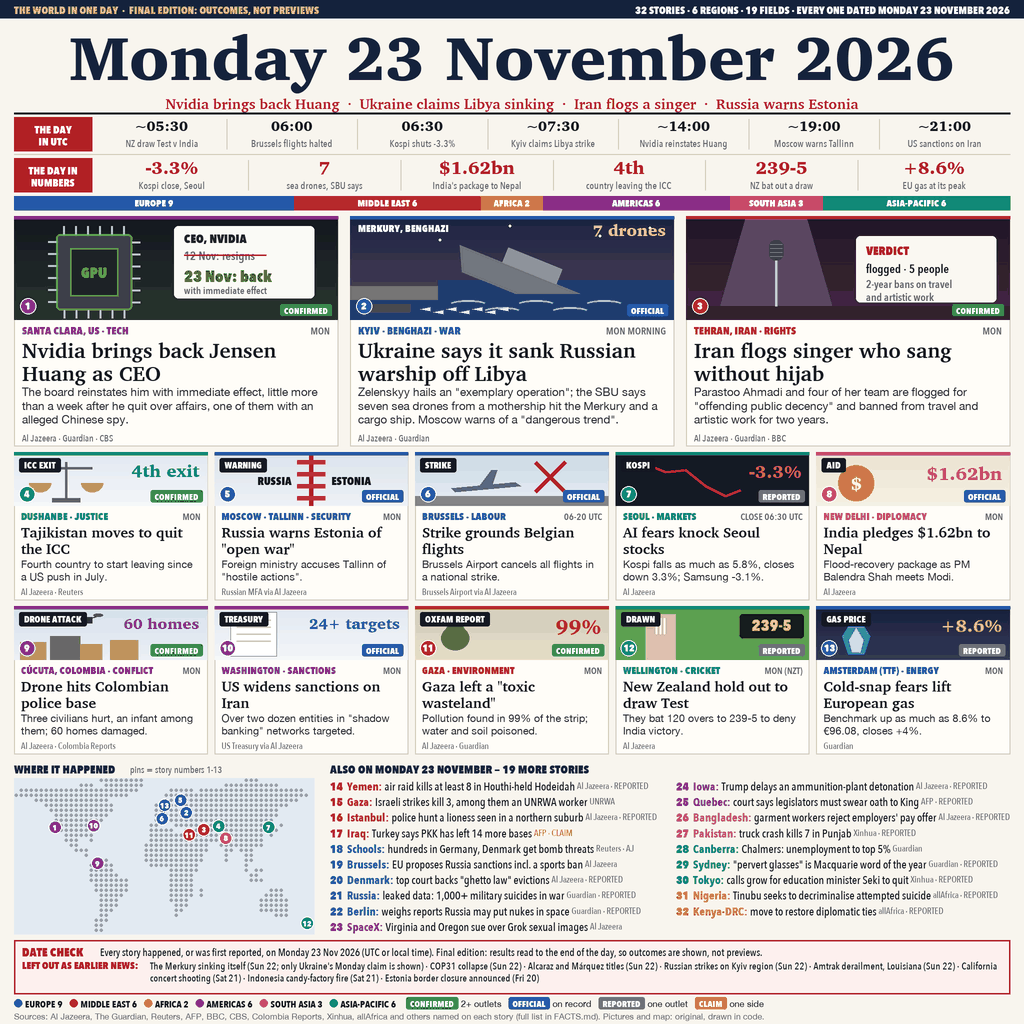
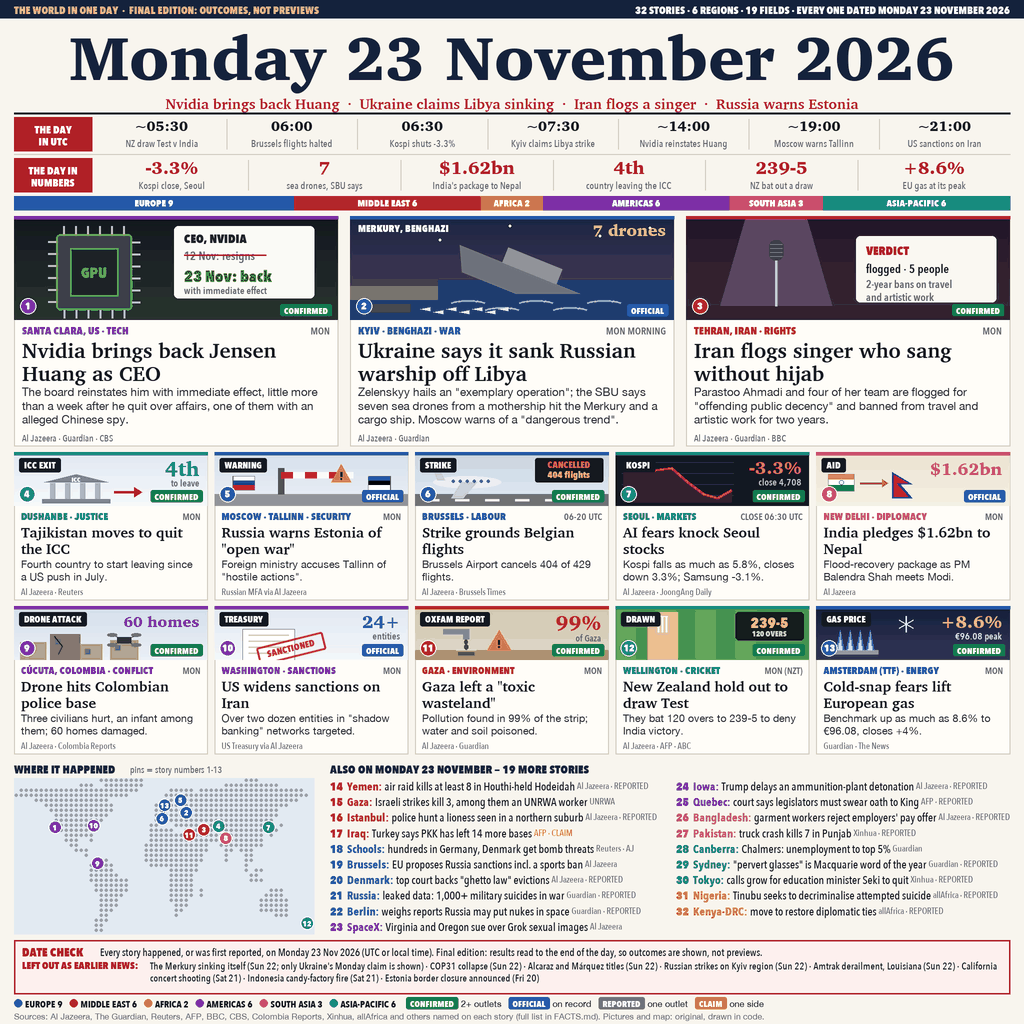
v2: redrawn card pictures, second sources lift four stories to CONFIRMED, Brussels figure corrected

diff --git a/render.py b/render.py
@@ -151,16 +151,16 @@ CARDS = [
          head='Russia warns Estonia of "open war"',
          dek='Foreign ministry accuses Tallinn of "hostile actions".',
          src='Russian MFA via Al Jazeera'),
-    dict(n=6, region='EUROPE', field='LABOUR', place='BRUSSELS', when='06-20 UTC', status='OFFICIAL',
+    dict(n=6, region='EUROPE', field='LABOUR', place='BRUSSELS', when='06-20 UTC', status='CONFIRMED',
          art='plane', ll=(4.5, 50.9), label='STRIKE',
          head='Strike grounds Belgian flights',
-         dek='Brussels Airport cancels all flights in a national strike.',
-         src='Brussels Airport via Al Jazeera'),
-    dict(n=7, region='ASIA-PACIFIC', field='MARKETS', place='SEOUL', when='CLOSE 06:30 UTC', status='REPORTED',
+         dek='Brussels Airport cancels 404 of 429 flights.',
+         src='Al Jazeera · Brussels Times'),
+    dict(n=7, region='ASIA-PACIFIC', field='MARKETS', place='SEOUL', when='CLOSE 06:30 UTC', status='CONFIRMED',
          art='chart', ll=(127.0, 37.5), label='KOSPI',
          head='AI fears knock Seoul stocks',
          dek='Kospi falls as much as 5.8%, closes down 3.3%; Samsung -3.1%.',
-         src='Al Jazeera'),
+         src='Al Jazeera · JoongAng Daily'),
     dict(n=8, region='SOUTH ASIA', field='DIPLOMACY', place='NEW DELHI', when='MON', status='OFFICIAL',
          art='money', ll=(77.2, 28.6), label='AID',
          head='India pledges $1.62bn to Nepal',
@@ -181,16 +181,16 @@ CARDS = [
          head='Gaza left a "toxic wasteland"',
          dek='Pollution found in 99% of the strip; water and soil poisoned.',
          src='Al Jazeera · Guardian'),
-    dict(n=12, region='ASIA-PACIFIC', field='CRICKET', place='WELLINGTON', when='MON (NZT)', status='REPORTED',
+    dict(n=12, region='ASIA-PACIFIC', field='CRICKET', place='WELLINGTON', when='MON (NZT)', status='CONFIRMED',
          art='cricket', ll=(174.8, -41.3), label='DRAWN',
          head='New Zealand hold out to draw Test',
          dek='They bat 120 overs to 239-5 to deny India victory.',
-         src='Al Jazeera'),
-    dict(n=13, region='EUROPE', field='ENERGY', place='AMSTERDAM (TTF)', when='MON', status='REPORTED',
+         src='Al Jazeera · AFP · ABC'),
+    dict(n=13, region='EUROPE', field='ENERGY', place='AMSTERDAM (TTF)', when='MON', status='CONFIRMED',
          art='gas', ll=(4.9, 52.4), label='GAS PRICE',
          head='Cold-snap fears lift European gas',
          dek='Benchmark up as much as 8.6% to €96.08, closes +4%.',
-         src='Guardian'),
+         src='Guardian · The News'),
 ]
 BRIEFS = [  # region, place, text, outlet, status, field
     ('MIDDLE EAST', 'Yemen', 'air raid kills at least 8 in Houthi-held Hodeidah', 'Al Jazeera', 'REPORTED', 'WAR'),
@@ -364,93 +364,163 @@ def art_singer(x, y, w, h):
     text(bx + 10, y + 74, 'and artistic work', 'demi', 11, GREY)
 
 
+def flag(x, y, w, h, stripes, vertical=False):
+    """A plain striped flag (only flags made of stripes are drawn)."""
+    n = len(stripes)
+    for k, c in enumerate(stripes):
+        if vertical:
+            rect(x + w * k / n, y, x + w * (k + 1) / n, y + h, fill=c)
+        else:
+            rect(x, y + h * k / n, x + w, y + h * (k + 1) / n, fill=c)
+    rect(x, y, x + w, y + h, outline=(120, 120, 120), width=0.6)
+
+
 def art_icc(x, y, w, h):
-    sky(x, y, w, h, (226, 232, 242), (244, 246, 250))
-    cx = x + 52
-    line([(cx, y + 10), (cx, y + h - 6)], (90, 96, 110), 2.5)
-    line([(cx - 26, y + 16), (cx + 26, y + 16)], (90, 96, 110), 2.5)
-    for sx in (cx - 26, cx + 26):
-        d.pieslice(P(sx - 11, y + 22, sx + 11, y + 40), 0, 180, fill=(200, 170, 90))
-    rect(cx - 14, y + h - 8, cx + 14, y + h - 4, fill=(90, 96, 110))
-    text(x + w - 8, y + 8, '4th exit', 'black', 17, (16, 136, 118), 'ra')
+    sky(x, y, w, h, (226, 232, 242), (246, 248, 252))
+    # the court: columns and pediment, a figure walking out through an arrowed door
+    bx = x + 30
+    poly([(bx, y + 30), (bx + 32, y + 22), (bx + 64, y + 30)], (120, 128, 146))
+    for k in range(4):
+        rect(bx + 6 + k * 15, y + 31, bx + 11 + k * 15, y + h - 7, fill=(170, 176, 190))
+    rect(bx - 2, y + h - 7, bx + 66, y + h - 3, fill=(120, 128, 146))
+    text(bx + 32, y + 23.5, 'ICC', 'heavy', 6.5, (255, 255, 255), 'ma')
+    line([(bx + 70, y + 40), (bx + 90, y + 40)], RED, 2.5)
+    poly([(bx + 90, y + 35), (bx + 98, y + 40), (bx + 90, y + 45)], RED)
+    text(x + w - 8, y + 4, '4th', 'black', 20, (16, 136, 118), 'ra')
+    text(x + w - 8, y + 25, 'to leave', 'demi', 9.5, GREY, 'ra')
 
 
 def art_border(x, y, w, h):
-    sky(x, y, w, h, (220, 228, 236), (238, 242, 246))
-    rect(x + w / 2 - 2, y, x + w / 2 + 2, y + h, fill=(150, 40, 40))
-    for k in range(4):
-        rect(x + w / 2 - 14, y + 8 + k * 12, x + w / 2 + 14, y + 12 + k * 12, fill=(200, 60, 50))
-    text(x + w / 2 - 20, y + 22, 'RUSSIA', 'heavy', 11, INK, 'ra')
-    text(x + w / 2 + 20, y + 22, 'ESTONIA', 'heavy', 11, INK)
+    sky(x, y, w, h, (214, 224, 236), (236, 240, 246))
+    rect(x, y + h - 12, x + w, y + h, fill=(150, 150, 150))
+    # boom barrier across the road
+    px = x + w / 2 - 30
+    rect(px - 3, y + 16, px + 3, y + h - 12, fill=(80, 80, 86))
+    for k in range(6):
+        rect(px + k * 12, y + 20, px + k * 12 + 12, y + 26, fill=(210, 40, 40) if k % 2 == 0 else (250, 250, 250))
+    flag(x + 18, y + 24, 22, 14, [(255, 255, 255), (0, 57, 166), (213, 43, 30)])
+    flag(x + w - 40, y + 24, 22, 14, [(0, 114, 206), (0, 0, 0), (255, 255, 255)])
+    line([(x + 18, y + 24), (x + 18, y + h - 12)], (90, 90, 96), 1)
+    line([(x + w - 18, y + 24), (x + w - 18, y + h - 12)], (90, 90, 96), 1)
+    poly([(x + w / 2 + 20, y + 30), (x + w / 2 + 30, y + 12), (x + w / 2 + 40, y + 30)], (240, 170, 30))
+    text(x + w / 2 + 30, y + 17, '!', 'heavy', 11, INK, 'ma')
 
 
 def art_plane(x, y, w, h):
-    sky(x, y, w, h, (200, 214, 230), (232, 238, 246))
-    rect(x, y + h - 10, x + w, y + h, fill=(130, 130, 136))
-    px, py = x + 70, y + h - 22
-    poly([(px - 34, py + 4), (px + 30, py - 2), (px + 36, py + 2), (px - 30, py + 8)], (90, 100, 120))
-    poly([(px - 6, py + 2), (px + 6, py - 14), (px + 12, py - 14), (px + 6, py + 4)], (90, 100, 120))
-    line([(x + 120, y + 10), (x + 150, y + 40)], RED, 4)
-    line([(x + 150, y + 10), (x + 120, y + 40)], RED, 4)
+    sky(x, y, w, h, (196, 210, 228), (228, 236, 246))
+    rect(x, y + h - 12, x + w, y + h, fill=(110, 112, 118))
+    for k in range(6):
+        rect(x + 10 + k * 30, y + h - 7, x + 24 + k * 30, y + h - 5, fill=(240, 240, 240))
+    px, py = x + 52, y + h - 24
+    ell(px, py, 34, 6, fill=(236, 238, 242))
+    poly([(px - 6, py), (px + 10, py), (px - 4, py + 16), (px - 16, py + 16)], (200, 204, 212))
+    poly([(px - 30, py - 2), (px - 22, py - 2), (px - 30, py - 18), (px - 36, py - 18)], (200, 204, 212))
+    for k in range(6):
+        ell(px - 14 + k * 7, py - 1, 1.5, 1.5, fill=(80, 100, 140))
+    rect(x + w - 74, y + 6, x + w - 6, y + 30, fill=(20, 24, 30), r=2)
+    text(x + w - 40, y + 7, 'CANCELLED', 'heavy', 9, (255, 90, 80), 'ma')
+    text(x + w - 40, y + 17, '404 flights', 'heavy', 9, (255, 200, 80), 'ma')
 
 
 def art_chart(x, y, w, h):
-    rect(x, y, x + w, y + h, fill=(20, 26, 36))
-    pts = [(x + 10, y + 16), (x + 30, y + 12), (x + 50, y + 20), (x + 70, y + 18), (x + 90, y + 34),
-           (x + 110, y + 44), (x + 125, y + 38)]
-    line(pts, (230, 60, 50), 2.5)
-    text(x + w - 8, y + 8, '-3.3%', 'black', 18, (240, 90, 80), 'ra')
+    rect(x, y, x + w, y + h, fill=(18, 24, 34))
+    for k in range(4):
+        line([(x + 6, y + 10 + k * 11), (x + 118, y + 10 + k * 11)], (40, 48, 62), 1)
+    pts = [(x + 8, y + 14), (x + 24, y + 12), (x + 40, y + 18), (x + 56, y + 16), (x + 72, y + 30),
+           (x + 88, y + 42), (x + 102, y + 46), (x + 116, y + 38)]
+    poly(pts + [(x + 116, y + h - 4), (x + 8, y + h - 4)], (70, 30, 36))
+    line(pts, (240, 70, 60), 2.5)
+    text(x + w - 8, y + 4, '-3.3%', 'black', 18, (255, 100, 90), 'ra')
+    text(x + w - 8, y + 24, 'close 4,708', 'demi', 9.5, (200, 200, 210), 'ra')
 
 
 def art_money(x, y, w, h):
     sky(x, y, w, h, (236, 228, 210), (246, 240, 228))
-    ell(x + 40, y + h / 2 + 4, 18, 18, fill=(200, 150, 50))
-    text(x + 40, y + h / 2 + 4, '$', 'black', 18, (255, 250, 230), 'mm')
-    text(x + w - 8, y + 10, '$1.62bn', 'black', 18, (196, 64, 128), 'ra')
+    flag(x + 12, y + 22, 26, 17, [(255, 153, 51), (255, 255, 255), (19, 136, 8)])
+    ell(x + 25, y + 30.5, 2.2, 2.2, outline=(0, 0, 128), width=0.8)
+    # Nepal: two stacked crimson pennants with a blue edge
+    nx, ny = x + 76, y + 20
+    poly([(nx, ny), (nx + 20, ny + 12), (nx + 8, ny + 12), (nx + 20, ny + 26), (nx, ny + 26)], (0, 56, 147))
+    poly([(nx + 1.5, ny + 2.5), (nx + 16, ny + 11), (nx + 4, ny + 11), (nx + 16, ny + 24.5), (nx + 1.5, ny + 24.5)],
+         (220, 20, 60))
+    line([(x + 44, y + 31), (x + 68, y + 31)], (150, 110, 40), 2)
+    poly([(x + 66, y + 27), (x + 72, y + 31), (x + 66, y + 35)], (150, 110, 40))
+    text(x + w - 8, y + 6, '$1.62bn', 'black', 17, (196, 64, 128), 'ra')
 
 
 def art_drone(x, y, w, h):
-    sky(x, y, w, h, (214, 224, 236), (236, 240, 246))
-    for k, (bw, bh) in enumerate([(26, 18), (30, 24), (22, 16), (28, 20)]):
+    sky(x, y, w, h, (212, 222, 236), (236, 240, 246))
+    for k, (bw, bh) in enumerate([(26, 18), (30, 26), (22, 16), (28, 20)]):
         bx = x + 6 + k * 30
-        rect(bx, y + h - bh, bx + bw, y + h, fill=(176, 150, 120) if k != 1 else (130, 100, 80))
-    dx, dy = x + 70, y + 14
-    rect(dx - 8, dy - 3, dx + 8, dy + 3, fill=(50, 50, 56))
-    for ox in (-14, 14):
-        line([(dx, dy), (dx + ox, dy - 4)], (50, 50, 56), 1.5)
-        ell(dx + ox, dy - 5, 5, 1.5, fill=(80, 80, 86))
-    text(x + w - 8, y + 8, '60 homes', 'black', 15, (124, 46, 164), 'ra')
+        rect(bx, y + h - bh, bx + bw, y + h, fill=(186, 160, 128) if k != 1 else (140, 108, 84))
+        rect(bx + 5, y + h - bh + 5, bx + 10, y + h - bh + 10, fill=(90, 110, 140))
+    line([(x + 40, y + h - 24), (x + 48, y + h - 14), (x + 44, y + h - 6)], INK, 1)
+    dx, dy = x + 110, y + 34
+    rect(dx - 7, dy - 3, dx + 7, dy + 3, fill=(46, 48, 54), r=1)
+    for ox, oy in ((-12, -5), (12, -5), (-12, 5), (12, 5)):
+        line([(dx, dy), (dx + ox, dy + oy)], (46, 48, 54), 1.4)
+        ell(dx + ox, dy + oy, 5, 1.6, fill=(110, 110, 118))
+    text(x + w - 8, y + 6, '60 homes', 'black', 15, (124, 46, 164), 'ra')
 
 
 def art_sanctions(x, y, w, h):
     sky(x, y, w, h, (226, 232, 242), (244, 246, 250))
-    rect(x + 16, y + 6, x + 62, y + h - 4, fill=(255, 255, 255), outline=GREY, width=0.8)
+    rect(x + 28, y + 23, x + 80, y + h + 4, fill=(255, 255, 255), outline=GREY, width=0.8)
     for k in range(4):
-        line([(x + 22, y + 14 + k * 7), (x + 56, y + 14 + k * 7)], RULE, 1.5)
-    text(x + w - 8, y + 8, '24+ targets', 'black', 15, (40, 92, 170), 'ra')
+        line([(x + 34, y + 29 + k * 6), (x + 74, y + 29 + k * 6)], RULE, 1.5)
+    stamp = Image.new('RGBA', (70 * S, 20 * S), (0, 0, 0, 0))
+    sd = ImageDraw.Draw(stamp)
+    sd.rounded_rectangle((1 * S, 1 * S, 69 * S, 19 * S), radius=2 * S, outline=(200, 40, 40, 235), width=2 * S)
+    sd.text((35 * S, 10 * S), 'SANCTIONED', font=font('heavy', 9), fill=(200, 40, 40, 235), anchor='mm')
+    stamp = stamp.rotate(14, resample=Image.BICUBIC, expand=True)
+    img.paste(stamp, (int((x + 40) * S), int((y + 24) * S)), stamp)
+    text(x + w - 8, y + 4, '24+', 'black', 18, (40, 92, 170), 'ra')
+    text(x + w - 8, y + 24, 'entities', 'demi', 9.5, GREY, 'ra')
 
 
 def art_toxic(x, y, w, h):
-    sky(x, y, w, h, (214, 206, 180), (230, 222, 200))
-    poly([(x + 40, y + 8), (x + 54, y + 30), (x + 40, y + 44), (x + 26, y + 30)], (90, 120, 60))
-    ell(x + 40, y + 32, 14, 12, fill=(90, 120, 60))
-    text(x + w - 8, y + 8, '99%', 'black', 20, (184, 44, 40), 'ra')
+    sky(x, y, w, h, (210, 200, 176), (228, 218, 196))
+    rect(x, y + h - 10, x + w, y + h, fill=(170, 150, 120))
+    # a tap dripping dark water into a cup, a hazard sign beside it
+    tx = x + 28
+    rect(tx, y + 23, tx + 26, y + 28, fill=(130, 136, 146))
+    rect(tx + 20, y + 28, tx + 26, y + 33, fill=(130, 136, 146))
+    for k, r in enumerate((2.2, 2.6)):
+        ell(tx + 23, y + 36 + k * 5, r * 0.8, r, fill=(70, 80, 50))
+    poly([(tx + 13, y + 44), (tx + 33, y + 44), (tx + 31, y + h - 10), (tx + 15, y + h - 10)], (230, 232, 236))
+    rect(tx + 15, y + 46, tx + 31, y + 49, fill=(80, 92, 56))
+    poly([(x + 72, y + 44), (x + 84, y + 24), (x + 96, y + 44)], (240, 170, 30))
+    text(x + 84, y + 31, '!', 'heavy', 11, INK, 'ma')
+    text(x + w - 8, y + 4, '99%', 'black', 20, (184, 44, 40), 'ra')
+    text(x + w - 8, y + 26, 'of Gaza', 'demi', 9.5, GREY, 'ra')
 
 
 def art_cricket(x, y, w, h):
-    rect(x, y, x + w, y + h, fill=(92, 160, 80))
-    rect(x + 30, y + 8, x + 60, y + h, fill=(214, 196, 150))
+    rect(x, y, x + w, y + h, fill=(84, 150, 74))
+    for k in range(4):
+        rect(x + k * 40, y, x + k * 40 + 20, y + h, fill=(92, 160, 82))
+    rect(x + 32, y + 6, x + 62, y + h, fill=(214, 196, 150))
     for k in range(3):
-        rect(x + 40 + k * 4, y + 12, x + 41.5 + k * 4, y + 28, fill=(250, 250, 250))
-    rect(x + w - 70, y + 8, x + w - 6, y + 32, fill=(20, 30, 20), r=3)
-    text(x + w - 38, y + 9, '239-5', 'heavy', 16, (250, 210, 90), 'ma')
+        rect(x + 42 + k * 4, y + 10, x + 43.5 + k * 4, y + 26, fill=(250, 250, 250))
+    line([(x + 41, y + 10), (x + 52, y + 10)], (250, 250, 250), 1)
+    rect(x + w - 74, y + 6, x + w - 6, y + 34, fill=(20, 30, 20), r=3)
+    text(x + w - 40, y + 7, '239-5', 'heavy', 15, (250, 210, 90), 'ma')
+    text(x + w - 40, y + 23, '120 OVERS', 'heavy', 7.5, (200, 230, 200), 'ma')
 
 
 def art_gas(x, y, w, h):
-    sky(x, y, w, h, (24, 30, 56), (50, 60, 96))
-    poly([(x + 40, y + 8), (x + 54, y + 30), (x + 48, y + h - 6), (x + 32, y + h - 6), (x + 26, y + 30)], (70, 140, 240))
-    poly([(x + 40, y + 22), (x + 47, y + 34), (x + 44, y + h - 8), (x + 36, y + h - 8), (x + 33, y + 34)], (170, 210, 255))
-    text(x + w - 8, y + 8, '+8.6%', 'black', 18, (255, 200, 90), 'ra')
+    sky(x, y, w, h, (22, 28, 54), (48, 58, 94))
+    rect(x + 18, y + h - 10, x + 62, y + h - 6, fill=(150, 150, 160))
+    for k in range(4):
+        fx = x + 24 + k * 10
+        poly([(fx - 4, y + h - 10), (fx, y + h - 30), (fx + 4, y + h - 10)], (70, 140, 240))
+        poly([(fx - 2, y + h - 10), (fx, y + h - 22), (fx + 2, y + h - 10)], (190, 220, 255))
+    # snowflake for the forecast cold snap
+    sx, sy = x + 90, y + 18
+    for a, b in (((0, -8), (0, 8)), ((-7, -4), (7, 4)), ((-7, 4), (7, -4))):
+        line([(sx + a[0], sy + a[1]), (sx + b[0], sy + b[1])], (220, 235, 255), 1.6)
+    text(x + w - 8, y + 4, '+8.6%', 'black', 18, (255, 200, 90), 'ra')
+    text(x + w - 8, y + 24, '€96.08 peak', 'demi', 9.5, (220, 226, 240), 'ra')
 
 
 ART_FNS = {k[4:]: v for k, v in globals().items() if k.startswith('art_')}

diff --git a/FACTS.md b/FACTS.md
@@ -16,14 +16,19 @@ CONFIRMED = two or more outlets; OFFICIAL = an on-record statement or filing; RE
 ## Cards
 4. Tajikistan formally notifies the UN it will leave the ICC — the fourth country since the US push in July. CONFIRMED — Al Jazeera · Reuters
 5. Russia's foreign ministry accuses Estonia of "hostile actions" and says it is on the verge of triggering "open war". OFFICIAL (Russian MFA) — Al Jazeera
-6. Belgium: national anti-austerity strike; Brussels Airport cancels all flights 06:00–20:00 UTC. OFFICIAL (airport statement) — Al Jazeera (two reports)
-7. Seoul: Kospi slides as much as 5.8% and closes down 3.3% on AI fears; Samsung -3.1%, SK Hynix -2.5%. REPORTED — Al Jazeera (Korea JoongAng Daily also reports a 3%+ fall)
+6. Belgium: national anti-austerity strike; air traffic control (Skeyes) stops regular service 07:00–21:00 local (06:00–20:00 UTC)
+   and Brussels Airport cancels 404 of its 429 flights (not literally all). CONFIRMED — Al Jazeera (two reports) · Brussels Times ·
+   IBTimes UK
+7. Seoul: Kospi slides as much as 5.8% and closes down 3.31% at 4,708.54 on AI fears; Samsung -3.06%, SK Hynix -2.52%.
+   CONFIRMED — Al Jazeera · Korea JoongAng Daily
 8. India pledges a $1.62bn package to Nepal as PM Balendra Shah meets Modi in New Delhi. OFFICIAL — Al Jazeera (joint statement, Hyderabad House)
 9. Colombia: drone attack on a police base in Cúcuta injures three civilians including an infant, damages 60 homes; first urban drone attack. CONFIRMED — Al Jazeera · Colombia Reports
 10. US Treasury sanctions more than two dozen Iranian entities in "shadow banking" networks. OFFICIAL — Al Jazeera
 11. Gaza: Oxfam-backed findings say Israel's destruction left a "toxic wasteland"; pollution in 99% of Gaza. CONFIRMED — Al Jazeera · Guardian
-12. Cricket: New Zealand bat 120 overs to 239-5 and draw the first Test with India in Wellington. REPORTED — Al Jazeera
-13. Europe: Dutch TTF gas rises as much as 8.6% to €96.08 on a forecast cold snap, settles +4% at €92.50. REPORTED — Guardian
+12. Cricket: New Zealand bat 120 overs to 239-5 and draw the first Test with India in Wellington. CONFIRMED — Al Jazeera ·
+    AFP via France 24 · ABC (Australia)
+13. Europe: Dutch TTF gas rises as much as 8.6% to €96.08 on a forecast cold snap, settles +4% at €92.50. CONFIRMED — Guardian ·
+    The News (Pakistan) · Yahoo Finance
 
 ## Briefs (one line each)
 Yemen: air raid kills at least 8 in Houthi-held Hodeidah (Al Jazeera) · Gaza: Israeli strikes kill 3 including an UNRWA worker
